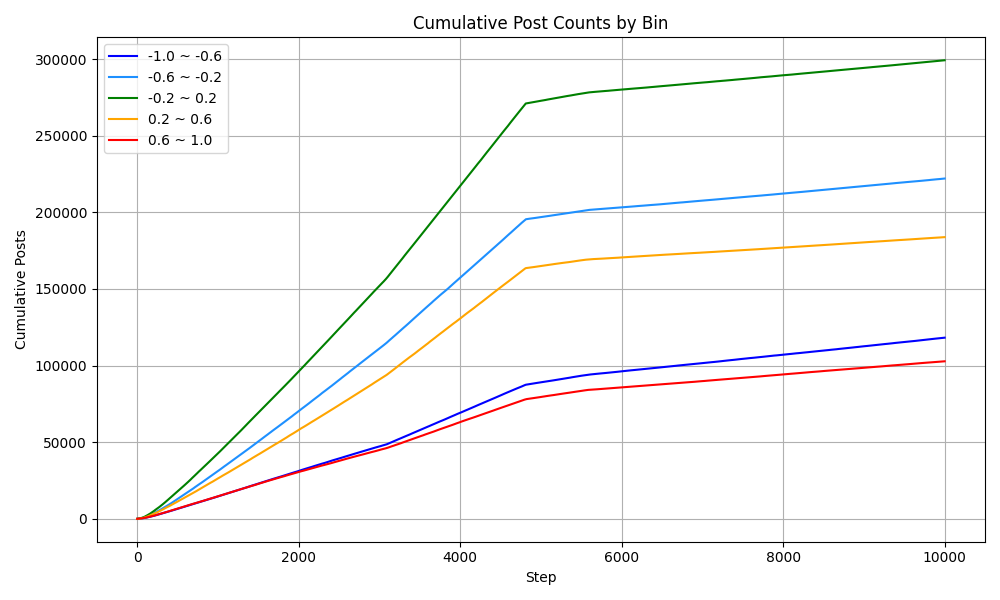
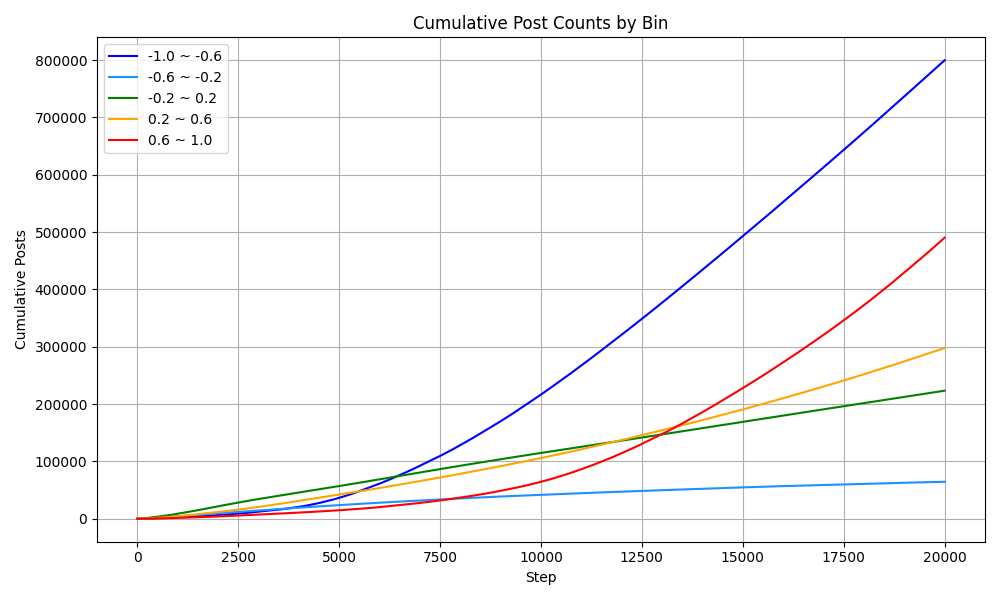
experriment goes well with CNN NW

diff --git a/src/agent/Agent.java b/src/agent/Agent.java
@@ -43,7 +43,7 @@ public class Agent {
         this.followRate = Const.INITIAL_FOLLOW_RATE;
         this.unfollowRate = Const.INITIAL_UNFOLLOW_RATE;
         this.timeStep = 0;
-        setNumOfPosts(30); // 10件はないと0.1をかけても残らない
+        setNumOfPosts(20); // 10件はないと0.1をかけても残らない
         /*
          * if(0.1 > rand.nextDouble()){
          * this.traitor = true;

diff --git a/src/constants/Const.java b/src/constants/Const.java
@@ -2,8 +2,8 @@ package constants;
 
 public class Const {
     // simulation parameter
-    public static final int MAX_SIMULATION_STEP = 10000;
-    public static final int NUM_OF_USER = 3000;
+    public static final int MAX_SIMULATION_STEP = 20000;
+    public static final int NUM_OF_USER = 5000;
     public static final int NUM_OF_SNS_USER = NUM_OF_USER;
     public static final int RANDOM_SEED = 903;
 

diff --git a/python/scripts/post_analysis.py b/python/scripts/post_analysis.py
@@ -2,7 +2,7 @@ import pandas as pd
 import matplotlib.pyplot as plt
 import os
 
-def read_and_accumulate_bins(data_dir, bins, max_index=10000):
+def read_and_accumulate_bins(data_dir, bins, max_index=20000):
     cumulative_counts = {bin_name: [] for bin_name in bins}
     current_cumulative = {bin_name: 0 for bin_name in bins}
     x = []
